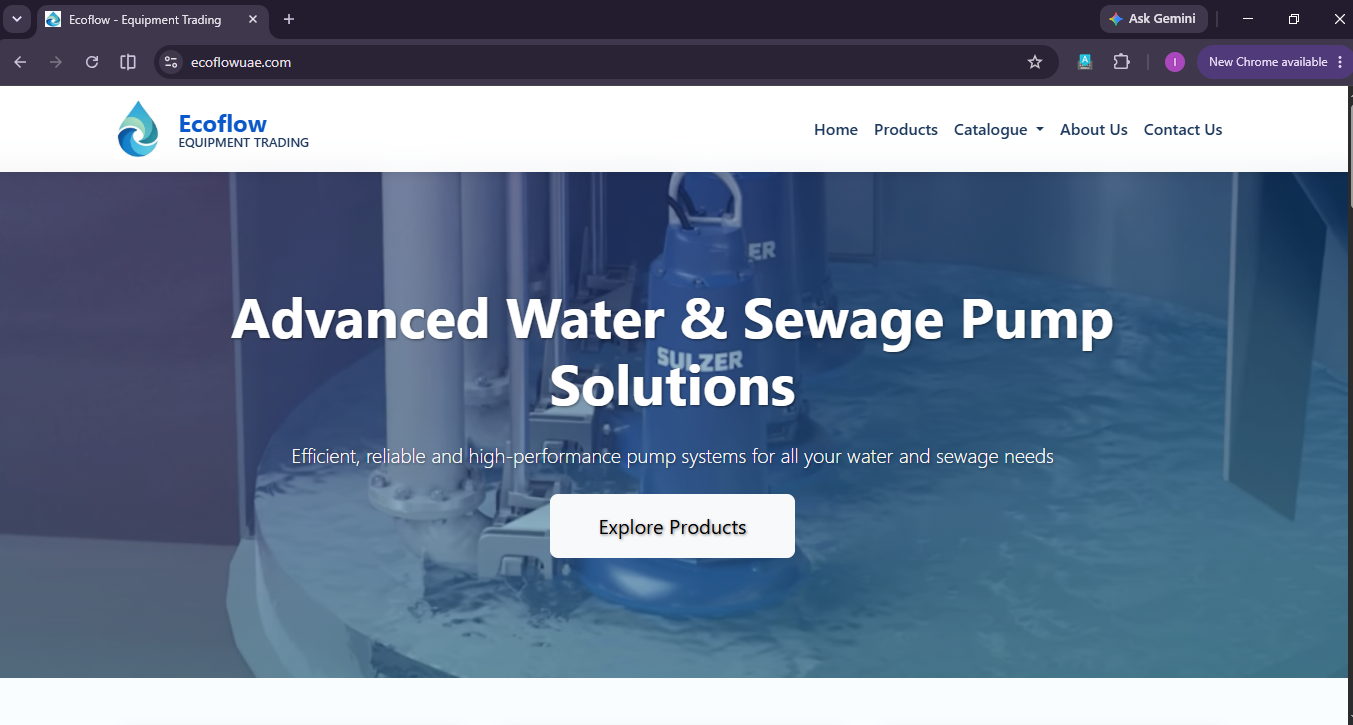
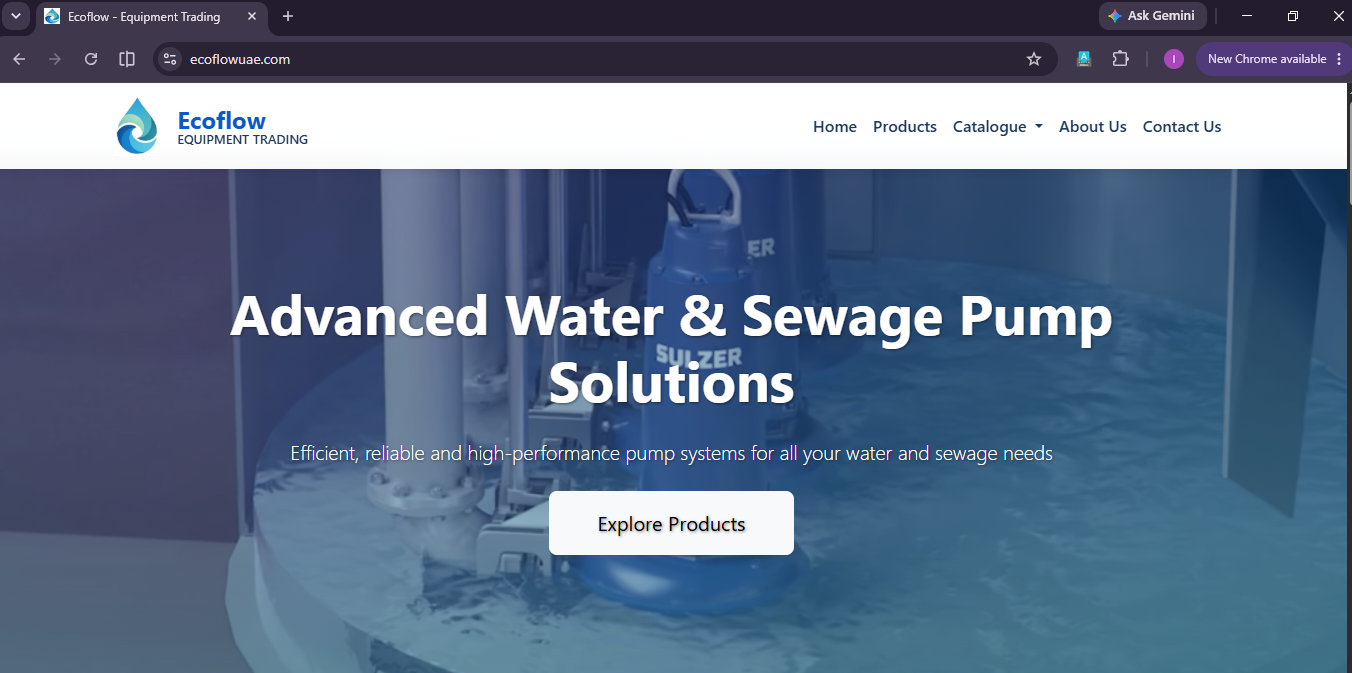
fix:image path fixed

diff --git a/index.html b/index.html
@@ -353,7 +353,7 @@
           <div class="work-box">
             <a href="https://irthahmariyam.github.io/7up/" data-lightbox="gallery-mf">
               <div class="work-img">
-                <img src="/img/7up.jpg" alt="" class="img-fluid">
+                <img src="img/7up.jpg" alt="" class="img-fluid">
               </div>
               <div class="work-content">
                 <div class="row">
@@ -376,9 +376,9 @@
        
         <div class="col-md-4">
           <div class="work-box">
-            <a href="/img/kopiko.jpg" data-lightbox="gallery-mf">
+            <a href="img/kopiko.jpg" data-lightbox="gallery-mf">
               <div class="work-img">
-                <img src="/img/kopiko.jpg" alt="" class="img-fluid">
+                <img src="img/kopiko.jpg" alt="" class="img-fluid">
               </div>
               <div class="work-content">
                 <div class="row">
@@ -404,7 +404,7 @@
           <div class="work-box">
             <a href="https://ecoflowuae.com/" data-lightbox="gallery-mf">
               <div class="work-img">
-                <img src="/img/ecoflow.png" alt="" class="img-fluid">
+                <img src="img/ecoflow.png" alt="" class="img-fluid">
               </div>
               <div class="work-content">
                 <div class="row">
@@ -429,7 +429,7 @@
           <div class="work-box">
             <a href="https://github.com/IrthahMariyam/Fruitables" data-lightbox="gallery-mf">
               <div class="work-img">
-                <img src="/img/Fruitables.png" alt="" class="img-fluid">
+                <img src="img/Fruitables.png" alt="" class="img-fluid">
               </div>
               <div class="work-content">
                 <div class="row">
@@ -455,7 +455,7 @@
           <div class="work-box">
             <a href="https://irthahmariyam.github.io/To-Do/" data-lightbox="gallery-mf">
               <div class="work-img">
-                <img src="/img/To-Do.png" alt="" class="img-fluid">
+                <img src="img/To-Do.png" alt="" class="img-fluid">
               </div>
               <div class="work-content">
                 <div class="row">
@@ -480,7 +480,7 @@
           <div class="work-box">
             <a href="https://github.com/IrthahMariyam/User-Management" data-lightbox="gallery-mf">
               <div class="work-img">
-                <img src="/img/User-Management.png" alt="" class="img-fluid">
+                <img src="img/User-Management.png" alt="" class="img-fluid">
               </div>
               <div class="work-content">
                 <div class="row">
@@ -505,7 +505,7 @@
           <div class="work-box">
             <a href="https://github.com/IrthahMariyam/Netflix-Clone" data-lightbox="gallery-mf">
               <div class="work-img">
-                <img src="/img/Netflix-Clone.png" alt="" class="img-fluid">
+                <img src="img/Netflix-Clone.png" alt="" class="img-fluid">
               </div>
               <div class="work-content">
                 <div class="row">
@@ -530,7 +530,7 @@
           <div class="work-box">
             <a href="https://github.com/IrthahMariyam/OLX-Clone" data-lightbox="gallery-mf">
               <div class="work-img">
-                <img src="/img/OLX-Clone.png" alt="" class="img-fluid">
+                <img src="img/OLX-Clone.png" alt="" class="img-fluid">
               </div>
               <div class="work-content">
                 <div class="row">
@@ -538,6 +538,31 @@
                     <h2 class="w-title">OLX-Clone website</h2>
                     <div class="w-more">
                       <span class="w-ctegory">Web Design</span> 
+                    </div>
+                  </div>
+                  <div class="col-sm-4">
+                    <div class="w-like">
+                      <span class="ion-ios-plus-outline"></span>
+                    </div>
+                  </div>
+                </div>
+              </div>
+            </a>
+          </div>
+        </div>
+
+         <div class="col-md-4">
+          <div class="work-box">
+            <a href="https://github.com/IrthahMariyam/Tasko-Backend" data-lightbox="gallery-mf">
+              <div class="work-img">
+                <img src="img/Tasko.png" alt="" class="img-fluid">
+              </div>
+              <div class="work-content">
+                <div class="row">
+                  <div class="col-sm-8">
+                    <h2 class="w-title">Tasko</h2>
+                    <div class="w-more">
+                      <span class="w-ctegory">Project Management Tool</span> 
                     </div>
                   </div>
                   <div class="col-sm-4">